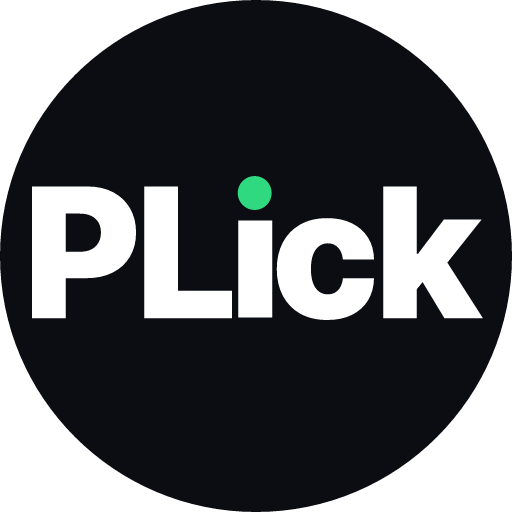
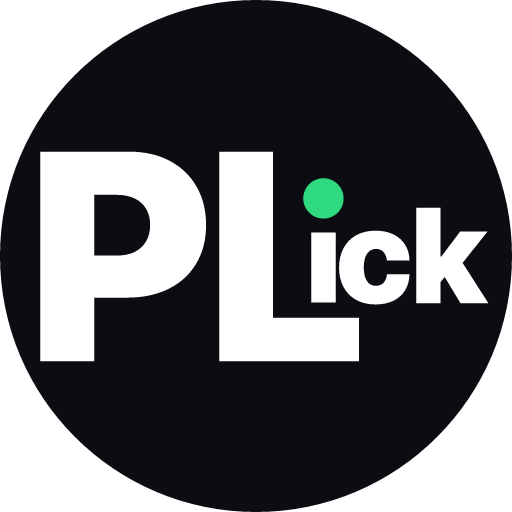
chore: 새 로고로 파비콘 세트 재생성
원본 logo.svg를 새 로고로 교체하고(점 색 #2fd97f 스왑) render.mjs로
두 앱의 icon.png, apple-icon.png, favicon.ico를 재생성했다.
scripts/favicon README의 깨진 npm install 명령도 --prefix로 고쳤다.

Changed region(s): [[0.0625, 0.2812, 0.9688, 0.7188]]

diff --git a/docs/adr/0074-favicon-logo-refresh.md b/docs/adr/0074-favicon-logo-refresh.md
@@ -1,0 +1,46 @@
+# 0074. 로고 리뉴얼에 따른 파비콘 세트 재생성
+
+## 무엇을 했나
+
+디자인 쪽에서 PLick 로고가 새로 나왔다. 원형 배경은 그대로인데 워드마크 비율이 커지고
+글자 형태가 달라졌다. 파비콘은 KAN-346 때 만든 `scripts/favicon/render.mjs`가
+`logo.svg` 하나를 원본으로 두 앱의 `icon.png`(512)·`apple-icon.png`(180)·
+`favicon.ico`(16+32)를 뽑아내는 구조라, 원본만 갈아끼우고 스크립트를 다시 돌리면 되는
+작업이었다.
+
+실제로 한 일은 두 가지다. 새 SVG를 `scripts/favicon/logo.svg`로 교체했고, 스크립트를
+돌려 여섯 파일(앱당 셋)을 재생성했다.
+
+## i 점 색 바꿔치기
+
+교체하면서 그냥 복사하면 안 되는 지점이 하나 있었다. 피그마 내보내기는 i 점을 라이트
+accent(`#12A968`)로 뽑는데, 앱은 다크 고정이라 파비콘 점은 다크 accent(`#2fd97f`)여야
+한다. 이건 KAN-346 때 같은 삽질을 하고 README에 "로고를 다시 내보내면 점 색을
+확인한다"라고 적어둔 덕에 이번엔 바로 잡았다. 새 SVG도 역시 `#12A968`로 나와 있어서
+`sed`로 치환해 넣었다. 과거의 내가 남긴 메모가 실제로 일한 드문 순간이었다.
+
+## npm install이 모노레포 루트로 새는 문제
+
+README에 적힌 대로 `cd scripts/favicon && npm install @resvg/resvg-js`를 했더니
+eresolve 에러로 깨졌다. 원인은 npm의 동작 방식이다. npm은 현재 폴더에 package.json이
+없으면 가장 가까운 package.json을 찾아 위로 올라가는데, `scripts/favicon`엔
+package.json이 없으니 모노레포 루트까지 올라가 pnpm 워크스페이스용 package.json을
+집어 들었다. 루트 의존성 트리는 pnpm 기준이라 npm이 해석하다 충돌이 난 것이다.
+
+`npm install --prefix . --no-save --no-package-lock @resvg/resvg-js`로 설치 위치를
+현재 폴더에 고정해 해결했다. KAN-346 때는 어쩌다 통과했는지 모르겠지만(루트 의존성이
+그 사이 늘었을 것이다), 재현되는 문제라 README의 설치 명령도 이걸로 고쳐 뒀다.
+
+## 건드리지 않은 것
+
+정적 OG 이미지(`opengraph-image.png`)는 파비콘과 원본이 다르다. 그쪽은
+`scripts/og-image/render.mjs`가 `@plick/ui` Logo 컴포넌트의 워드마크 벡터를 인라인으로
+품고 있다. 이번 리뉴얼이 워드마크 자체를 바꾼 것이라면 Logo 컴포넌트와 OG 스크립트도
+새 벡터로 따라가야 하는데, 그건 파비콘 재생성과는 별개 작업이라 이 세션에선 손대지
+않았다. 필요해지면 후속으로 한다.
+
+## 검증
+
+재생성된 `icon.png`와 `apple-icon.png`를 열어 새 워드마크와 초록 점(`#2fd97f`)을 눈으로
+확인했다. `favicon.ico`는 `file` 명령으로 32·16 두 엔트리 32bpp가 제대로 조립됐는지
+확인했다. 파이프라인 배경은 [ADR 0070](0070-seo-step0-site-url-og.md)에 있다.

diff --git a/scripts/favicon/README.md b/scripts/favicon/README.md
@@ -9,9 +9,11 @@
 
 ```bash
 cd scripts/favicon
-npm install @resvg/resvg-js
+npm install --prefix . --no-save --no-package-lock @resvg/resvg-js
 node render.mjs
 ```
+
+`--prefix .` 없이 설치하면 npm이 모노레포 루트 package.json까지 올라가 eresolve로 깨진다.
 
 icon.png는 원형 그대로(모서리 투명), apple-icon.png는 iOS가 투명 배경을 검게 칠해 버려서
 다크 토큰 배경을 정사각으로 깔았다. favicon.ico는 스크립트가 BMP 엔트리를 직접 조립한다.
